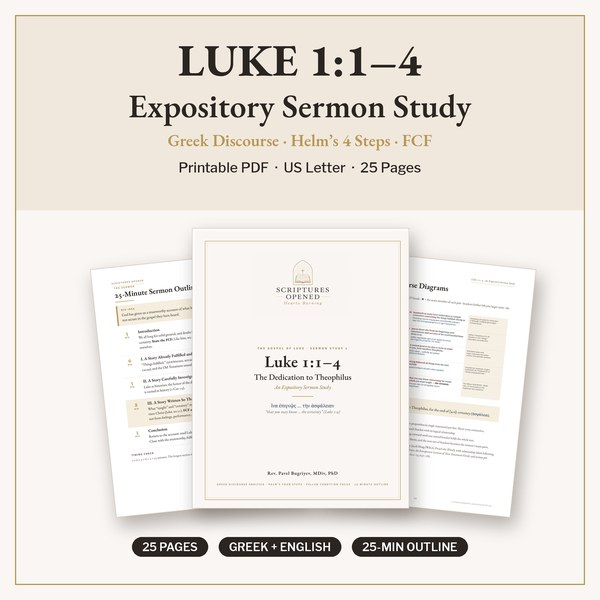
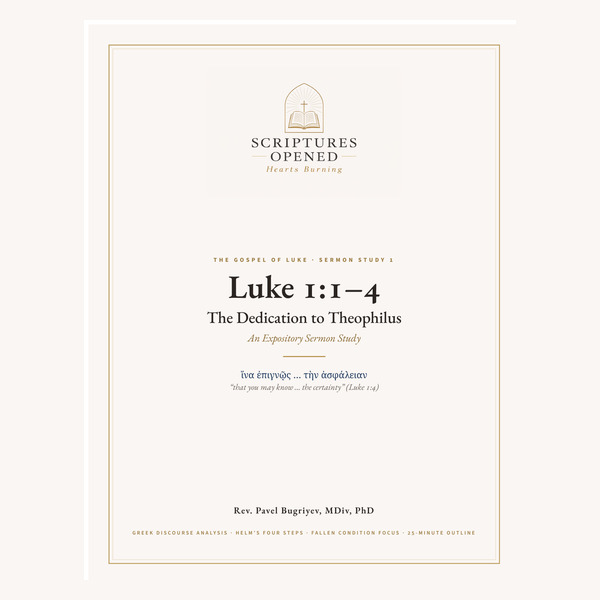
Resources: publish fifteen Luke sermon study cards
Refresh the first three sermon previews to the current 27-, 35-, and 35-page packets, and add the other twelve approved studies in passage order. Held Luke 2:22–32 and 2:33–40 stay off the page.

Changed region(s): [[0.0, 0.0, 0.96, 0.96], [0.03, 0.03, 0.99, 0.99], [0.45, 0.78, 0.57, 0.81]]

diff --git a/resources.html b/resources.html
@@ -6,9 +6,21 @@
 <article class="product"><img src="assets/products/luke.jpg" alt="Luke Small Group Pack cover" loading="lazy" width="600"><div class="body"><h3>Luke Small Group Pack</h3><p>12 sessions through all 24 chapters of Luke, with leader&rsquo;s guide and printable handouts.</p><div class="previews"><img src="assets/products/luke_s1.jpg" alt="Luke Small Group Pack sample page 1" loading="lazy" width="600"><img src="assets/products/luke_s2.jpg" alt="Luke Small Group Pack sample page 2" loading="lazy" width="600"><img src="assets/products/luke_s3.jpg" alt="Luke Small Group Pack sample page 3" loading="lazy" width="600"></div><p class="price">$5.99</p><a class="btn" href="https://www.etsy.com/listing/4598847993">Buy on Etsy</a></div></article>
 <article class="product"><img src="assets/products/acts.jpg" alt="Acts Small Group Pack cover" loading="lazy" width="600"><div class="body"><h3>Acts Small Group Pack</h3><p>A 12-session small group pack through the book of Acts.</p><div class="previews"><img src="assets/products/acts_s1.jpg" alt="Acts Small Group Pack sample page 1" loading="lazy" width="600"><img src="assets/products/acts_s2.jpg" alt="Acts Small Group Pack sample page 2" loading="lazy" width="600"><img src="assets/products/acts_s3.jpg" alt="Acts Small Group Pack sample page 3" loading="lazy" width="600"></div><p class="price">$5.99</p><a class="btn" href="https://www.etsy.com/listing/4600635449/acts-bible-study-small-group-pack-12">Buy on Etsy</a></div></article>
 <article class="product"><img src="assets/products/advent.jpg" alt="Advent Bible Study cover" loading="lazy" width="600"><div class="body"><h3>Advent Bible Study</h3><p>A printable Advent study for small groups and families.</p><div class="previews"><img src="assets/products/advent_s1.jpg" alt="Advent Bible Study sample page 1" loading="lazy" width="600"><img src="assets/products/advent_s2.jpg" alt="Advent Bible Study sample page 2" loading="lazy" width="600"><img src="assets/products/advent_s3.jpg" alt="Advent Bible Study sample page 3" loading="lazy" width="600"></div><p class="price">$4.99</p><a class="btn" href="https://www.etsy.com/listing/4603633187">Buy on Etsy</a></div></article>
-<article class="product"><img src="assets/products/luke_sermon_1_1-4.jpg" alt="Cover of the Luke 1:1&ndash;4 Expository Sermon Study, 25-page partial preview" loading="lazy" width="600"><div class="body"><h3>Luke 1:1&ndash;4 Expository Sermon Study</h3><p>A 25-page expository sermon study of the dedication to Theophilus, from the Greek text to a Christ-centered outline.</p><div class="previews"><img src="assets/products/luke_sermon_1_1-4_s1.jpg" alt="Partial preview of the Luke 1:1&ndash;4 sermon study: discourse diagrams and how to use the study" loading="lazy" width="600"><img src="assets/products/luke_sermon_1_1-4_s2.jpg" alt="Partial preview of the Luke 1:1&ndash;4 sermon study: big ideas and fallen condition focus" loading="lazy" width="600"><img src="assets/products/luke_sermon_1_1-4_s3.jpg" alt="Partial preview of the Luke 1:1&ndash;4 sermon study: 25-minute sermon outline" loading="lazy" width="600"></div><p class="price">$4.99</p><a class="btn" href="https://www.etsy.com/listing/4610989529/luke-11-4-expository-sermon-study-pdf">Buy on Etsy</a></div></article>
-<article class="product"><img src="assets/products/luke_sermon_1_5-25.jpg" alt="Cover of the Luke 1:5&ndash;25 Expository Sermon Study, 34-page partial preview" loading="lazy" width="600"><div class="body"><h3>Luke 1:5&ndash;25 Expository Sermon Study</h3><p>A 34-page expository sermon study on the birth of John the Baptist foretold, from the Greek text to a Christ-centered outline.</p><div class="previews"><img src="assets/products/luke_sermon_1_5-25_s1.jpg" alt="Partial preview of the Luke 1:5&ndash;25 sermon study: discourse diagrams and how to use the study" loading="lazy" width="600"><img src="assets/products/luke_sermon_1_5-25_s2.jpg" alt="Partial preview of the Luke 1:5&ndash;25 sermon study: big ideas and fallen condition focus" loading="lazy" width="600"><img src="assets/products/luke_sermon_1_5-25_s3.jpg" alt="Partial preview of the Luke 1:5&ndash;25 sermon study: 25-minute sermon outline" loading="lazy" width="600"></div><p class="price">$4.99</p><a class="btn" href="https://www.etsy.com/listing/4610990713/luke-15-25-expository-sermon-study-pdf">Buy on Etsy</a></div></article>
-<article class="product"><img src="assets/products/luke_sermon_1_26-38.jpg" alt="Cover of the Luke 1:26&ndash;38 Expository Sermon Study, 33-page partial preview" loading="lazy" width="600"><div class="body"><h3>Luke 1:26&ndash;38 Expository Sermon Study</h3><p>A 33-page expository sermon study on the birth of Jesus foretold, from the Greek text to a Christ-centered outline.</p><div class="previews"><img src="assets/products/luke_sermon_1_26-38_s1.jpg" alt="Partial preview of the Luke 1:26&ndash;38 sermon study: discourse diagrams and how to use the study" loading="lazy" width="600"><img src="assets/products/luke_sermon_1_26-38_s2.jpg" alt="Partial preview of the Luke 1:26&ndash;38 sermon study: big ideas and fallen condition focus" loading="lazy" width="600"><img src="assets/products/luke_sermon_1_26-38_s3.jpg" alt="Partial preview of the Luke 1:26&ndash;38 sermon study: 25-minute sermon outline" loading="lazy" width="600"></div><p class="price">$4.99</p><a class="btn" href="https://www.etsy.com/listing/4610991435/luke-126-38-expository-sermon-study-pdf">Buy on Etsy</a></div></article>
+<article class="product"><img src="assets/products/luke_sermon_1_1-4.jpg" alt="Partial title-page preview of the 27-page Luke 1:1&ndash;4 Expository Sermon Study" loading="lazy" width="600"><div class="body"><h3>Luke 1:1&ndash;4 Expository Sermon Study</h3><p>A 27-page expository sermon study of the dedication to Theophilus, from the Greek text to a Christ-centered outline.</p><div class="previews"><img src="assets/products/luke_sermon_1_1-4_s1.jpg" alt="Partial preview of the Luke 1:1&ndash;4 sermon study: bracket discourse diagram" loading="lazy" width="600"><img src="assets/products/luke_sermon_1_1-4_s2.jpg" alt="Partial preview of the Luke 1:1&ndash;4 sermon study: fallen condition focus" loading="lazy" width="600"><img src="assets/products/luke_sermon_1_1-4_s3.jpg" alt="Partial preview of the Luke 1:1&ndash;4 sermon study: 25-minute sermon outline" loading="lazy" width="600"></div><p class="price">$4.99</p><a class="btn" href="https://www.etsy.com/listing/4610989529/luke-11-4-expository-sermon-study-pdf">Buy on Etsy</a></div></article>
+<article class="product"><img src="assets/products/luke_sermon_1_5-25.jpg" alt="Partial title-page preview of the 35-page Luke 1:5&ndash;25 Expository Sermon Study" loading="lazy" width="600"><div class="body"><h3>Luke 1:5&ndash;25 Expository Sermon Study</h3><p>A 35-page expository sermon study on the birth of John the Baptist foretold, from the Greek text to a Christ-centered outline.</p><div class="previews"><img src="assets/products/luke_sermon_1_5-25_s1.jpg" alt="Partial preview of the Luke 1:5&ndash;25 sermon study: bracket discourse diagram" loading="lazy" width="600"><img src="assets/products/luke_sermon_1_5-25_s2.jpg" alt="Partial preview of the Luke 1:5&ndash;25 sermon study: fallen condition focus" loading="lazy" width="600"><img src="assets/products/luke_sermon_1_5-25_s3.jpg" alt="Partial preview of the Luke 1:5&ndash;25 sermon study: 25-minute sermon outline" loading="lazy" width="600"></div><p class="price">$4.99</p><a class="btn" href="https://www.etsy.com/listing/4610990713/luke-15-25-expository-sermon-study-pdf">Buy on Etsy</a></div></article>
+<article class="product"><img src="assets/products/luke_sermon_1_26-38.jpg" alt="Partial title-page preview of the 35-page Luke 1:26&ndash;38 Expository Sermon Study" loading="lazy" width="600"><div class="body"><h3>Luke 1:26&ndash;38 Expository Sermon Study</h3><p>A 35-page expository sermon study on the birth of Jesus foretold, from the Greek text to a Christ-centered outline.</p><div class="previews"><img src="assets/products/luke_sermon_1_26-38_s1.jpg" alt="Partial preview of the Luke 1:26&ndash;38 sermon study: bracket discourse diagram" loading="lazy" width="600"><img src="assets/products/luke_sermon_1_26-38_s2.jpg" alt="Partial preview of the Luke 1:26&ndash;38 sermon study: fallen condition focus" loading="lazy" width="600"><img src="assets/products/luke_sermon_1_26-38_s3.jpg" alt="Partial preview of the Luke 1:26&ndash;38 sermon study: 25-minute sermon outline" loading="lazy" width="600"></div><p class="price">$4.99</p><a class="btn" href="https://www.etsy.com/listing/4610991435/luke-126-38-expository-sermon-study-pdf">Buy on Etsy</a></div></article>
+<article class="product"><img src="assets/products/luke_sermon_1_39-45.jpg" alt="Partial title-page preview of the 32-page Luke 1:39&ndash;45 Expository Sermon Study" loading="lazy" width="600"><div class="body"><h3>Luke 1:39&ndash;45 Expository Sermon Study</h3><p>A 32-page expository sermon study of Mary&rsquo;s visit to Elizabeth, from the Greek text to a Christ-centered outline.</p><div class="previews"><img src="assets/products/luke_sermon_1_39-45_s1.jpg" alt="Partial preview of the Luke 1:39&ndash;45 sermon study: bracket discourse diagram" loading="lazy" width="600"><img src="assets/products/luke_sermon_1_39-45_s2.jpg" alt="Partial preview of the Luke 1:39&ndash;45 sermon study: fallen condition focus" loading="lazy" width="600"><img src="assets/products/luke_sermon_1_39-45_s3.jpg" alt="Partial preview of the Luke 1:39&ndash;45 sermon study: 25-minute sermon outline" loading="lazy" width="600"></div><p class="price">$4.99</p><a class="btn" href="https://www.etsy.com/listing/4611406665/luke-139-45-expository-sermon-study-pdf">Buy on Etsy</a></div></article>
+<article class="product"><img src="assets/products/luke_sermon_1_46-56.jpg" alt="Partial title-page preview of the 32-page Luke 1:46&ndash;56 Expository Sermon Study" loading="lazy" width="600"><div class="body"><h3>Luke 1:46&ndash;56 Expository Sermon Study</h3><p>A 32-page expository sermon study of Mary&rsquo;s song of praise, the Magnificat, from the Greek text to a Christ-centered outline.</p><div class="previews"><img src="assets/products/luke_sermon_1_46-56_s1.jpg" alt="Partial preview of the Luke 1:46&ndash;56 sermon study: bracket discourse diagram" loading="lazy" width="600"><img src="assets/products/luke_sermon_1_46-56_s2.jpg" alt="Partial preview of the Luke 1:46&ndash;56 sermon study: fallen condition focus" loading="lazy" width="600"><img src="assets/products/luke_sermon_1_46-56_s3.jpg" alt="Partial preview of the Luke 1:46&ndash;56 sermon study: 25-minute sermon outline" loading="lazy" width="600"></div><p class="price">$4.99</p><a class="btn" href="https://www.etsy.com/listing/4611426808/luke-146-56-expository-sermon-study-pdf">Buy on Etsy</a></div></article>
+<article class="product"><img src="assets/products/luke_sermon_1_57-66.jpg" alt="Partial title-page preview of the 31-page Luke 1:57&ndash;66 Expository Sermon Study" loading="lazy" width="600"><div class="body"><h3>Luke 1:57&ndash;66 Expository Sermon Study</h3><p>A 31-page expository sermon study on the naming of John, from the Greek text to a Christ-centered outline.</p><div class="previews"><img src="assets/products/luke_sermon_1_57-66_s1.jpg" alt="Partial preview of the Luke 1:57&ndash;66 sermon study: bracket discourse diagram" loading="lazy" width="600"><img src="assets/products/luke_sermon_1_57-66_s2.jpg" alt="Partial preview of the Luke 1:57&ndash;66 sermon study: fallen condition focus" loading="lazy" width="600"><img src="assets/products/luke_sermon_1_57-66_s3.jpg" alt="Partial preview of the Luke 1:57&ndash;66 sermon study: 25-minute sermon outline" loading="lazy" width="600"></div><p class="price">$4.99</p><a class="btn" href="https://www.etsy.com/listing/4611410373/luke-157-66-expository-sermon-study-pdf">Buy on Etsy</a></div></article>
+<article class="product"><img src="assets/products/luke_sermon_1_67-75.jpg" alt="Partial title-page preview of the 29-page Luke 1:67&ndash;75 Expository Sermon Study" loading="lazy" width="600"><div class="body"><h3>Luke 1:67&ndash;75 Expository Sermon Study</h3><p>A 29-page expository sermon study of Zechariah&rsquo;s song, the God who visits and redeems, from the Greek text to a Christ-centered outline.</p><div class="previews"><img src="assets/products/luke_sermon_1_67-75_s1.jpg" alt="Partial preview of the Luke 1:67&ndash;75 sermon study: bracket discourse diagram" loading="lazy" width="600"><img src="assets/products/luke_sermon_1_67-75_s2.jpg" alt="Partial preview of the Luke 1:67&ndash;75 sermon study: fallen condition focus" loading="lazy" width="600"><img src="assets/products/luke_sermon_1_67-75_s3.jpg" alt="Partial preview of the Luke 1:67&ndash;75 sermon study: 25-minute sermon outline" loading="lazy" width="600"></div><p class="price">$4.99</p><a class="btn" href="https://www.etsy.com/listing/4611412571/luke-167-75-expository-sermon-study-pdf">Buy on Etsy</a></div></article>
+<article class="product"><img src="assets/products/luke_sermon_1_76-80.jpg" alt="Partial title-page preview of the 29-page Luke 1:76&ndash;80 Expository Sermon Study" loading="lazy" width="600"><div class="body"><h3>Luke 1:76&ndash;80 Expository Sermon Study</h3><p>A 29-page expository sermon study of the dawn from on high, from the Greek text to a Christ-centered outline.</p><div class="previews"><img src="assets/products/luke_sermon_1_76-80_s1.jpg" alt="Partial preview of the Luke 1:76&ndash;80 sermon study: bracket discourse diagram" loading="lazy" width="600"><img src="assets/products/luke_sermon_1_76-80_s2.jpg" alt="Partial preview of the Luke 1:76&ndash;80 sermon study: fallen condition focus" loading="lazy" width="600"><img src="assets/products/luke_sermon_1_76-80_s3.jpg" alt="Partial preview of the Luke 1:76&ndash;80 sermon study: 25-minute sermon outline" loading="lazy" width="600"></div><p class="price">$4.99</p><a class="btn" href="https://www.etsy.com/listing/4611431830/luke-176-80-expository-sermon-study-pdf">Buy on Etsy</a></div></article>
+<article class="product"><img src="assets/products/luke_sermon_2_1-7.jpg" alt="Partial title-page preview of the 30-page Luke 2:1&ndash;7 Expository Sermon Study" loading="lazy" width="600"><div class="body"><h3>Luke 2:1&ndash;7 Expository Sermon Study</h3><p>A 30-page expository sermon study of the birth of Jesus Christ, from the Greek text to a Christ-centered outline.</p><div class="previews"><img src="assets/products/luke_sermon_2_1-7_s1.jpg" alt="Partial preview of the Luke 2:1&ndash;7 sermon study: bracket discourse diagram" loading="lazy" width="600"><img src="assets/products/luke_sermon_2_1-7_s2.jpg" alt="Partial preview of the Luke 2:1&ndash;7 sermon study: fallen condition focus" loading="lazy" width="600"><img src="assets/products/luke_sermon_2_1-7_s3.jpg" alt="Partial preview of the Luke 2:1&ndash;7 sermon study: 25-minute sermon outline" loading="lazy" width="600"></div><p class="price">$4.99</p><a class="btn" href="https://www.etsy.com/listing/4611433106/luke-21-7-expository-sermon-study-pdf">Buy on Etsy</a></div></article>
+<article class="product"><img src="assets/products/luke_sermon_2_8-14.jpg" alt="Partial title-page preview of the 29-page Luke 2:8&ndash;14 Expository Sermon Study" loading="lazy" width="600"><div class="body"><h3>Luke 2:8&ndash;14 Expository Sermon Study</h3><p>A 29-page expository sermon study of the shepherds and the angels, from the Greek text to a Christ-centered outline.</p><div class="previews"><img src="assets/products/luke_sermon_2_8-14_s1.jpg" alt="Partial preview of the Luke 2:8&ndash;14 sermon study: bracket discourse diagram" loading="lazy" width="600"><img src="assets/products/luke_sermon_2_8-14_s2.jpg" alt="Partial preview of the Luke 2:8&ndash;14 sermon study: fallen condition focus" loading="lazy" width="600"><img src="assets/products/luke_sermon_2_8-14_s3.jpg" alt="Partial preview of the Luke 2:8&ndash;14 sermon study: 25-minute sermon outline" loading="lazy" width="600"></div><p class="price">$4.99</p><a class="btn" href="https://www.etsy.com/listing/4611418001/luke-28-14-expository-sermon-study-pdf">Buy on Etsy</a></div></article>
+<article class="product"><img src="assets/products/luke_sermon_2_15-21.jpg" alt="Partial title-page preview of the 31-page Luke 2:15&ndash;21 Expository Sermon Study" loading="lazy" width="600"><div class="body"><h3>Luke 2:15&ndash;21 Expository Sermon Study</h3><p>A 31-page expository sermon study on going to see, tell, and treasure what God has done, from the Greek text to a Christ-centered outline.</p><div class="previews"><img src="assets/products/luke_sermon_2_15-21_s1.jpg" alt="Partial preview of the Luke 2:15&ndash;21 sermon study: bracket discourse diagram" loading="lazy" width="600"><img src="assets/products/luke_sermon_2_15-21_s2.jpg" alt="Partial preview of the Luke 2:15&ndash;21 sermon study: fallen condition focus" loading="lazy" width="600"><img src="assets/products/luke_sermon_2_15-21_s3.jpg" alt="Partial preview of the Luke 2:15&ndash;21 sermon study: 25-minute sermon outline" loading="lazy" width="600"></div><p class="price">$4.99</p><a class="btn" href="https://www.etsy.com/listing/4611419309/luke-215-21-expository-sermon-study-pdf">Buy on Etsy</a></div></article>
+<article class="product"><img src="assets/products/luke_sermon_2_41-52.jpg" alt="Partial title-page preview of the 32-page Luke 2:41&ndash;52 Expository Sermon Study" loading="lazy" width="600"><div class="body"><h3>Luke 2:41&ndash;52 Expository Sermon Study</h3><p>A 32-page expository sermon study of the boy Jesus in his Father&rsquo;s house, from the Greek text to a Christ-centered outline.</p><div class="previews"><img src="assets/products/luke_sermon_2_41-52_s1.jpg" alt="Partial preview of the Luke 2:41&ndash;52 sermon study: bracket discourse diagram" loading="lazy" width="600"><img src="assets/products/luke_sermon_2_41-52_s2.jpg" alt="Partial preview of the Luke 2:41&ndash;52 sermon study: fallen condition focus" loading="lazy" width="600"><img src="assets/products/luke_sermon_2_41-52_s3.jpg" alt="Partial preview of the Luke 2:41&ndash;52 sermon study: 25-minute sermon outline" loading="lazy" width="600"></div><p class="price">$4.99</p><a class="btn" href="https://www.etsy.com/listing/4611438882/luke-241-52-expository-sermon-study-pdf">Buy on Etsy</a></div></article>
+<article class="product"><img src="assets/products/luke_sermon_3_1-20.jpg" alt="Partial title-page preview of the 33-page Luke 3:1&ndash;20 Expository Sermon Study" loading="lazy" width="600"><div class="body"><h3>Luke 3:1&ndash;20 Expository Sermon Study</h3><p>A 33-page expository sermon study on preparing the way of the Lord, from the Greek text to a Christ-centered outline.</p><div class="previews"><img src="assets/products/luke_sermon_3_1-20_s1.jpg" alt="Partial preview of the Luke 3:1&ndash;20 sermon study: bracket discourse diagram" loading="lazy" width="600"><img src="assets/products/luke_sermon_3_1-20_s2.jpg" alt="Partial preview of the Luke 3:1&ndash;20 sermon study: fallen condition focus" loading="lazy" width="600"><img src="assets/products/luke_sermon_3_1-20_s3.jpg" alt="Partial preview of the Luke 3:1&ndash;20 sermon study: 25-minute sermon outline" loading="lazy" width="600"></div><p class="price">$4.99</p><a class="btn" href="https://www.etsy.com/listing/4611430379/luke-31-20-expository-sermon-study-pdf">Buy on Etsy</a></div></article>
+<article class="product"><img src="assets/products/luke_sermon_3_21-22.jpg" alt="Partial title-page preview of the 28-page Luke 3:21&ndash;22 Expository Sermon Study" loading="lazy" width="600"><div class="body"><h3>Luke 3:21&ndash;22 Expository Sermon Study</h3><p>A 28-page expository sermon study of the baptism of Jesus, the beloved Son, from the Greek text to a Christ-centered outline.</p><div class="previews"><img src="assets/products/luke_sermon_3_21-22_s1.jpg" alt="Partial preview of the Luke 3:21&ndash;22 sermon study: bracket discourse diagram" loading="lazy" width="600"><img src="assets/products/luke_sermon_3_21-22_s2.jpg" alt="Partial preview of the Luke 3:21&ndash;22 sermon study: fallen condition focus" loading="lazy" width="600"><img src="assets/products/luke_sermon_3_21-22_s3.jpg" alt="Partial preview of the Luke 3:21&ndash;22 sermon study: 25-minute sermon outline" loading="lazy" width="600"></div><p class="price">$4.99</p><a class="btn" href="https://www.etsy.com/listing/4611450638/luke-321-22-expository-sermon-study-pdf">Buy on Etsy</a></div></article>
+<article class="product"><img src="assets/products/luke_sermon_3_23-38.jpg" alt="Partial title-page preview of the 28-page Luke 3:23&ndash;38 Expository Sermon Study" loading="lazy" width="600"><div class="body"><h3>Luke 3:23&ndash;38 Expository Sermon Study</h3><p>A 28-page expository sermon study of the genealogy, Son of Adam and Son of God, from the Greek text to a Christ-centered outline.</p><div class="previews"><img src="assets/products/luke_sermon_3_23-38_s1.jpg" alt="Partial preview of the Luke 3:23&ndash;38 sermon study: bracket discourse diagram" loading="lazy" width="600"><img src="assets/products/luke_sermon_3_23-38_s2.jpg" alt="Partial preview of the Luke 3:23&ndash;38 sermon study: fallen condition focus" loading="lazy" width="600"><img src="assets/products/luke_sermon_3_23-38_s3.jpg" alt="Partial preview of the Luke 3:23&ndash;38 sermon study: 25-minute sermon outline" loading="lazy" width="600"></div><p class="price">$4.99</p><a class="btn" href="https://www.etsy.com/listing/4611433847/luke-323-38-expository-sermon-study-pdf">Buy on Etsy</a></div></article>
 <!-- PLACEHOLDER: Luke 1:1-4 Sermon Companion (cover + 3 samples already in assets/products/). Uncomment and set the Etsy URL once the listing is live.
 <article class="product"><img src="assets/products/luke_companion_1_1-4.jpg" alt="Luke 1:1-4 Sermon Companion cover" loading="lazy" width="600"><div class="body"><h3>Luke 1:1&ndash;4 Sermon Companion</h3><p>A 6-page small group guide to meet after the sermon and rest secure in the gospel.</p><div class="previews"><img src="assets/products/luke_companion_1_1-4_s1.jpg" alt="Luke 1:1&ndash;4 Sermon Companion sample page 1" loading="lazy" width="600"><img src="assets/products/luke_companion_1_1-4_s2.jpg" alt="Luke 1:1&ndash;4 Sermon Companion sample page 2" loading="lazy" width="600"><img src="assets/products/luke_companion_1_1-4_s3.jpg" alt="Luke 1:1&ndash;4 Sermon Companion sample page 3" loading="lazy" width="600"></div><a class="btn" href="ETSY_URL_HERE">Buy on Etsy</a></div></article>
 -->

diff --git a/tests/test_resources_cards.py b/tests/test_resources_cards.py
@@ -1,8 +1,10 @@
-"""Precise checks for the resources page product cards.
+"""Checks for the resources page product cards.
 
-Visible cards must keep the existing studies, add the three approved Luke
-expository sermon studies at $4.99, and leave the sermon companion commented
-out. Previews are partial JPEGs only: no PDFs and no file-host links.
+Nineteen visible cards: the four original packs, then fifteen Luke expository
+sermon studies in passage order. Previews are partial JPEGs only. Dollar
+amounts are display copy: tests check that a price is present and well formed,
+and do not pin the amount, so an authorized price sync can edit resources.html
+without rewriting link, image, or hash assertions.
 """
 
 from __future__ import annotations
@@ -16,39 +18,100 @@ from pathlib import Path
 ROOT = Path(__file__).resolve().parents[1]
 RESOURCES = ROOT / "resources.html"
 TEXT_SUFFIXES = {".html", ".css", ".md", ".js", ".json", ".yml", ".yaml", ".txt"}
+PRICE_RE = re.compile(r"^\$\d+\.\d{2}$")
 
-# Byte-for-byte previews copied from the approved site-preview set.
-NEW_PREVIEW_SHA256 = {
[12 lines of base64/hex data omitted]
+# Byte-for-byte partial previews. Hashes identify the approved cover and
+# three sample pages; they are not full study files.
+SERMON_PREVIEW_SHA256 = {
[60 lines of base64/hex data omitted]
 }
 
 UNCHANGED_SHA256 = {
[20 lines of base64/hex data omitted]
 }
 
-EXPECTED_CARDS = [
+PACKS = [
     {
         "title": "Judges Bible Study",
         "blurb": "A heart-level, gospel-centered small group study through the book of Judges.",
-        "price": "$4.99",
         "href": "https://www.etsy.com/listing/4591816580",
         "images": [
             ("assets/products/judges.jpg", "Judges Bible Study cover"),
@@ -60,7 +123,6 @@ EXPECTED_CARDS = [
     {
         "title": "Luke Small Group Pack",
         "blurb": "12 sessions through all 24 chapters of Luke, with leader’s guide and printable handouts.",
-        "price": "$5.99",
         "href": "https://www.etsy.com/listing/4598847993",
         "images": [
             ("assets/products/luke.jpg", "Luke Small Group Pack cover"),
@@ -72,7 +134,6 @@ EXPECTED_CARDS = [
     {
         "title": "Acts Small Group Pack",
         "blurb": "A 12-session small group pack through the book of Acts.",
-        "price": "$5.99",
         "href": "https://www.etsy.com/listing/4600635449/acts-bible-study-small-group-pack-12",
         "images": [
             ("assets/products/acts.jpg", "Acts Small Group Pack cover"),
@@ -84,7 +145,6 @@ EXPECTED_CARDS = [
     {
         "title": "Advent Bible Study",
         "blurb": "A printable Advent study for small groups and families.",
-        "price": "$4.99",
         "href": "https://www.etsy.com/listing/4603633187",
         "images": [
             ("assets/products/advent.jpg", "Advent Bible Study cover"),
@@ -93,79 +153,37 @@ EXPECTED_CARDS = [
             ("assets/products/advent_s3.jpg", "Advent Bible Study sample page 3"),
         ],
     },
-    {
-        "title": "Luke 1:1–4 Expository Sermon Study",
-        "blurb": "A 25-page expository sermon study of the dedication to Theophilus, from the Greek text to a Christ-centered outline.",
-        "price": "$4.99",
-        "href": "https://www.etsy.com/listing/4610989529/luke-11-4-expository-sermon-study-pdf",
-        "images": [
-            (
-                "assets/products/luke_sermon_1_1-4.jpg",
-                "Cover of the Luke 1:1–4 Expository Sermon Study, 25-page partial preview",
-            ),
-            (
-                "assets/products/luke_sermon_1_1-4_s1.jpg",
-                "Partial preview of the Luke 1:1–4 sermon study: discourse diagrams and how to use the study",
-            ),
-            (
-                "assets/products/luke_sermon_1_1-4_s2.jpg",
-                "Partial preview of the Luke 1:1–4 sermon study: big ideas and fallen condition focus",
-            ),
-            (
-                "assets/products/luke_sermon_1_1-4_s3.jpg",
-                "Partial preview of the Luke 1:1–4 sermon study: 25-minute sermon outline",
-            ),
-        ],
-    },
-    {
-        "title": "Luke 1:5–25 Expository Sermon Study",
-        "blurb": "A 34-page expository sermon study on the birth of John the Baptist foretold, from the Greek text to a Christ-centered outline.",
-        "price": "$4.99",
-        "href": "https://www.etsy.com/listing/4610990713/luke-15-25-expository-sermon-study-pdf",
-        "images": [
-            (
-                "assets/products/luke_sermon_1_5-25.jpg",
-                "Cover of the Luke 1:5–25 Expository Sermon Study, 34-page partial preview",
-            ),
-            (
-                "assets/products/luke_sermon_1_5-25_s1.jpg",
-                "Partial preview of the Luke 1:5–25 sermon study: discourse diagrams and how to use the study",
-            ),
-            (
-                "assets/products/luke_sermon_1_5-25_s2.jpg",
-                "Partial preview of the Luke 1:5–25 sermon study: big ideas and fallen condition focus",
-            ),
-            (
-                "assets/products/luke_sermon_1_5-25_s3.jpg",
-                "Partial preview of the Luke 1:5–25 sermon study: 25-minute sermon outline",
-            ),
-        ],
-    },
-    {
-        "title": "Luke 1:26–38 Expository Sermon Study",
-        "blurb": "A 33-page expository sermon study on the birth of Jesus foretold, from the Greek text to a Christ-centered outline.",
-        "price": "$4.99",
-        "href": "https://www.etsy.com/listing/4610991435/luke-126-38-expository-sermon-study-pdf",
-        "images": [
-            (
-                "assets/products/luke_sermon_1_26-38.jpg",
-                "Cover of the Luke 1:26–38 Expository Sermon Study, 33-page partial preview",
-            ),
-            (
-                "assets/products/luke_sermon_1_26-38_s1.jpg",
-                "Partial preview of the Luke 1:26–38 sermon study: discourse diagrams and how to use the study",
-            ),
-            (
-                "assets/products/luke_sermon_1_26-38_s2.jpg",
-                "Partial preview of the Luke 1:26–38 sermon study: big ideas and fallen condition focus",
-            ),
-            (
-                "assets/products/luke_sermon_1_26-38_s3.jpg",
-                "Partial preview of the Luke 1:26–38 sermon study: 25-minute sermon outline",
-            ),
-        ],
-    },
 ]
+
+# Passage order. Held Luke 2:22–32 and Luke 2:33–40 are omitted on purpose.
+SERMONS = [
+    ("1_1-4", "Luke 1:1–4", 27, "A 27-page expository sermon study of the dedication to Theophilus, from the Greek text to a Christ-centered outline.", "https://www.etsy.com/listing/4610989529/luke-11-4-expository-sermon-study-pdf"),
+    ("1_5-25", "Luke 1:5–25", 35, "A 35-page expository sermon study on the birth of John the Baptist foretold, from the Greek text to a Christ-centered outline.", "https://www.etsy.com/listing/4610990713/luke-15-25-expository-sermon-study-pdf"),
+    ("1_26-38", "Luke 1:26–38", 35, "A 35-page expository sermon study on the birth of Jesus foretold, from the Greek text to a Christ-centered outline.", "https://www.etsy.com/listing/4610991435/luke-126-38-expository-sermon-study-pdf"),
+    ("1_39-45", "Luke 1:39–45", 32, "A 32-page expository sermon study of Mary’s visit to Elizabeth, from the Greek text to a Christ-centered outline.", "https://www.etsy.com/listing/4611406665/luke-139-45-expository-sermon-study-pdf"),
+    ("1_46-56", "Luke 1:46–56", 32, "A 32-page expository sermon study of Mary’s song of praise, the Magnificat, from the Greek text to a Christ-centered outline.", "https://www.etsy.com/listing/4611426808/luke-146-56-expository-sermon-study-pdf"),
+    ("1_57-66", "Luke 1:57–66", 31, "A 31-page expository sermon study on the naming of John, from the Greek text to a Christ-centered outline.", "https://www.etsy.com/listing/4611410373/luke-157-66-expository-sermon-study-pdf"),
+    ("1_67-75", "Luke 1:67–75", 29, "A 29-page expository sermon study of Zechariah’s song, the God who visits and redeems, from the Greek text to a Christ-centered outline.", "https://www.etsy.com/listing/4611412571/luke-167-75-expository-sermon-study-pdf"),
+    ("1_76-80", "Luke 1:76–80", 29, "A 29-page expository sermon study of the dawn from on high, from the Greek text to a Christ-centered outline.", "https://www.etsy.com/listing/4611431830/luke-176-80-expository-sermon-study-pdf"),
+    ("2_1-7", "Luke 2:1–7", 30, "A 30-page expository sermon study of the birth of Jesus Christ, from the Greek text to a Christ-centered outline.", "https://www.etsy.com/listing/4611433106/luke-21-7-expository-sermon-study-pdf"),
+    ("2_8-14", "Luke 2:8–14", 29, "A 29-page expository sermon study of the shepherds and the angels, from the Greek text to a Christ-centered outline.", "https://www.etsy.com/listing/4611418001/luke-28-14-expository-sermon-study-pdf"),
+    ("2_15-21", "Luke 2:15–21", 31, "A 31-page expository sermon study on going to see, tell, and treasure what God has done, from the Greek text to a Christ-centered outline.", "https://www.etsy.com/listing/4611419309/luke-215-21-expository-sermon-study-pdf"),
+    ("2_41-52", "Luke 2:41–52", 32, "A 32-page expository sermon study of the boy Jesus in his Father’s house, from the Greek text to a Christ-centered outline.", "https://www.etsy.com/listing/4611438882/luke-241-52-expository-sermon-study-pdf"),
+    ("3_1-20", "Luke 3:1–20", 33, "A 33-page expository sermon study on preparing the way of the Lord, from the Greek text to a Christ-centered outline.", "https://www.etsy.com/listing/4611430379/luke-31-20-expository-sermon-study-pdf"),
+    ("3_21-22", "Luke 3:21–22", 28, "A 28-page expository sermon study of the baptism of Jesus, the beloved Son, from the Greek text to a Christ-centered outline.", "https://www.etsy.com/listing/4611450638/luke-321-22-expository-sermon-study-pdf"),
+    ("3_23-38", "Luke 3:23–38", 28, "A 28-page expository sermon study of the genealogy, Son of Adam and Son of God, from the Greek text to a Christ-centered outline.", "https://www.etsy.com/listing/4611433847/luke-323-38-expository-sermon-study-pdf"),
+]
+
+
+def sermon_images(ref: str, display: str, pages: int) -> list[tuple[str, str]]:
+    base = f"assets/products/luke_sermon_{ref}"
+    title = f"{display} Expository Sermon Study"
+    return [
+        (f"{base}.jpg", f"Partial title-page preview of the {pages}-page {title}"),
+        (f"{base}_s1.jpg", f"Partial preview of the {display} sermon study: bracket discourse diagram"),
+        (f"{base}_s2.jpg", f"Partial preview of the {display} sermon study: fallen condition focus"),
+        (f"{base}_s3.jpg", f"Partial preview of the {display} sermon study: 25-minute sermon outline"),
+    ]
 
 
 def sha256(path: Path) -> str:
@@ -266,49 +284,61 @@ class ResourcesCardTests(unittest.TestCase):
         parser.feed(cls.visible)
         cls.products = parser.products
 
-    def test_visible_cards_match_existing_plus_three_sermon_studies(self) -> None:
-        self.assertEqual(len(self.products), len(EXPECTED_CARDS))
-        for got, expected in zip(self.products, EXPECTED_CARDS):
+    def test_nineteen_visible_products_in_order(self) -> None:
+        self.assertEqual(len(self.products), 19)
+        self.assertEqual(len(PACKS) + len(SERMONS), 19)
+        for got, expected in zip(self.products[:4], PACKS):
             self.assertEqual(got["title"], expected["title"])
             self.assertEqual(got["blurbs"], [expected["blurb"]])
-            self.assertEqual(got["price"], expected["price"])
             self.assertEqual(got["href"], expected["href"])
             self.assertEqual(got["button"], "Buy on Etsy")
-            self.assertEqual(got["imgs"], list(expected["images"]))
+            self.assertEqual(got["imgs"], expected["images"])
+            self.assertRegex(got["price"], PRICE_RE)
+        for got, sermon in zip(self.products[4:], SERMONS):
+            ref, display, pages, blurb, href = sermon
+            self.assertEqual(got["title"], f"{display} Expository Sermon Study")
+            self.assertEqual(got["blurbs"], [blurb])
+            self.assertIn(f"{pages}-page", blurb)
+            self.assertEqual(got["href"], href)
+            self.assertEqual(got["button"], "Buy on Etsy")
+            self.assertEqual(got["imgs"], sermon_images(ref, display, pages))
+            self.assertRegex(got["price"], PRICE_RE)
             for src, alt in got["imgs"]:
-                self.assertTrue(alt.strip(), f"missing alt text for {src}")
+                self.assertTrue(alt.strip(), src)
                 self.assertFalse(src.lower().endswith(".pdf"))
+                self.assertTrue((ROOT / src).is_file(), src)
 
-    def test_new_cards_are_four_ninety_nine_and_link_to_approved_listings(self) -> None:
-        sermons = [card for card in self.products if "Expository Sermon Study" in card["title"]]
-        self.assertEqual(
-            [card["title"] for card in sermons],
-            [
-                "Luke 1:1–4 Expository Sermon Study",
-                "Luke 1:5–25 Expository Sermon Study",
-                "Luke 1:26–38 Expository Sermon Study",
-            ],
-        )
-        self.assertEqual({card["price"] for card in sermons}, {"$4.99"})
-        self.assertEqual(
-            [card["href"] for card in sermons],
-            [
-                "https://www.etsy.com/listing/4610989529/luke-11-4-expository-sermon-study-pdf",
-                "https://www.etsy.com/listing/4610990713/luke-15-25-expository-sermon-study-pdf",
-                "https://www.etsy.com/listing/4610991435/luke-126-38-expository-sermon-study-pdf",
-            ],
-        )
-        joined = " ".join(card["blurbs"][0] for card in sermons)
-        self.assertIn("25-page", joined)
-        self.assertIn("34-page", joined)
-        self.assertIn("33-page", joined)
+    def test_prices_stay_editable_display_amounts(self) -> None:
+        amounts = [card["price"] for card in self.products]
+        self.assertEqual(len(amounts), 19)
+        for amount in amounts:
+            self.assertRegex(amount, PRICE_RE)
+        # The amount itself is not pinned. A later authorized price sync should
+        # be able to change resources.html without failing image or link checks.
+
+    def test_held_luke_2_passages_are_absent(self) -> None:
+        for needle in (
+            "Luke 2:22",
+            "Luke 2:33",
+            "2:22–32",
+            "2:33–40",
+            "2:22-32",
+            "2:33-40",
+            "luke_sermon_2_22",
+            "luke_sermon_2_33",
+        ):
+            self.assertNotIn(needle, self.html)
+        products = ROOT / "assets" / "products"
+        self.assertEqual(list(products.glob("luke_sermon_2_22*")), [])
+        self.assertEqual(list(products.glob("luke_sermon_2_33*")), [])
 
     def test_luke_pack_and_hidden_companion_stay_in_place(self) -> None:
         titles = [card["title"] for card in self.products]
-        self.assertIn("Luke Small Group Pack", titles)
+        self.assertEqual(titles[1], "Luke Small Group Pack")
         self.assertNotIn("Luke 1:1–4 Sermon Companion", titles)
         self.assertNotIn("ETSY_URL_HERE", self.visible)
         self.assertNotIn("luke_companion_", self.visible)
+        self.assertNotIn("4609536948", self.visible)
         self.assertIn("PLACEHOLDER: Luke 1:1-4 Sermon Companion", self.html)
         self.assertIn('src="assets/products/luke_companion_1_1-4.jpg"', self.html)
         self.assertIn('href="ETSY_URL_HERE"', self.html)
@@ -316,7 +346,13 @@ class ResourcesCardTests(unittest.TestCase):
         self.assertEqual(self.html.count("-->"), 1)
 
     def test_preview_files_are_the_approved_partial_jpegs(self) -> None:
-        for rel, digest in NEW_PREVIEW_SHA256.items():
+        self.assertEqual(len(SERMON_PREVIEW_SHA256), 60)
+        on_disk = sorted(
+            path.relative_to(ROOT).as_posix()
+            for path in (ROOT / "assets" / "products").glob("luke_sermon_*.jpg")
+        )
+        self.assertEqual(on_disk, sorted(SERMON_PREVIEW_SHA256))
+        for rel, digest in SERMON_PREVIEW_SHA256.items():
             path = ROOT / rel
             data = path.read_bytes()
             self.assertEqual(sha256(path), digest, rel)
@@ -324,12 +360,12 @@ class ResourcesCardTests(unittest.TestCase):
             self.assertEqual(jpeg_size(data), (600, 600), rel)
             self.assertNotIn(digest, UNCHANGED_SHA256.values())
 
-    def test_existing_luke_pack_and_companion_bytes_are_unchanged(self) -> None:
+    def test_original_packs_and_companion_bytes_are_unchanged(self) -> None:
         for rel, digest in UNCHANGED_SHA256.items():
             self.assertEqual(sha256(ROOT / rel), digest, rel)
 
     def test_no_pdf_or_file_host_links_anywhere_in_the_site(self) -> None:
-        pdfs = [p for p in ROOT.rglob("*") if p.is_file() and p.suffix.lower() == ".pdf" and ".git" not in p.parts]
+        pdfs = [path for path in ROOT.rglob("*") if path.is_file() and path.suffix.lower() == ".pdf" and ".git" not in path.parts]
         self.assertEqual(pdfs, [])
         self.assertFalse(list(ROOT.rglob("listing.md")))
         forbidden = (
